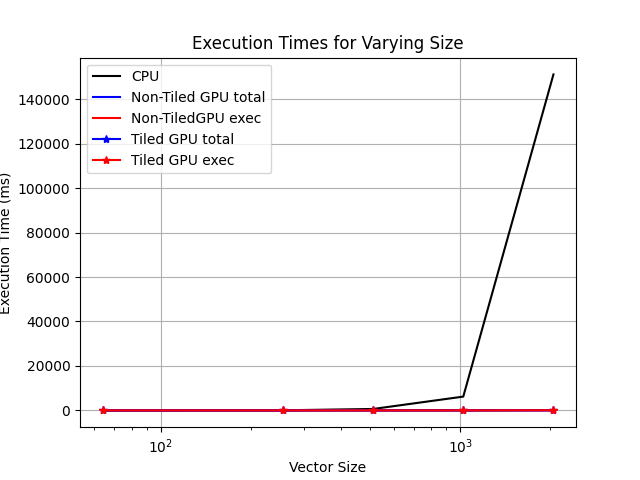
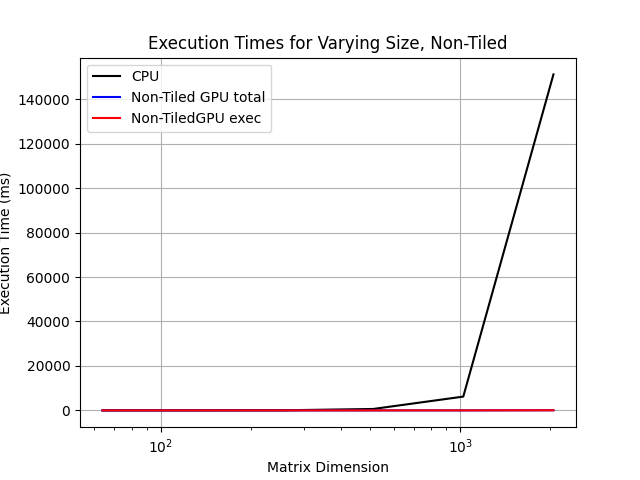
Fixed Figured

diff --git a/GPU/SAXPY/Tiled_MatMult/graph.py b/GPU/SAXPY/Tiled_MatMult/graph.py
@@ -28,47 +28,69 @@ GPU_Mem_N=GPU_wo_Mem+data['Memory Transfer (ms)'].to_numpy()
 through=np.divide(3*np.multiply(size,size),data['Memory Transfer (ms)'].to_numpy())*10e-6
 SU_Mem=np.divide(CPU,GPU_Mem)
 SU_wo_Mem=np.divide(CPU,GPU_wo_Mem)
-SU_Mem=np.divide(CPU,GPU_Mem_N)
-SU_wo_Mem=np.divide(CPU,GPU_wo_Mem_N)
+SU_Mem_N=np.divide(CPU,GPU_Mem_N)
+SU_wo_Mem_N=np.divide(CPU,GPU_wo_Mem_N)
 print(through)
+print(SU_Mem)
 
 fig, (ax1)= plt.subplots(1,1)
 ax1.plot(size,CPU, 'k',label='CPU')
-ax1.plot(size,GPU_Mem, 'b',label='Non-Tiled GPU total')
-ax1.plot(size,GPU_wo_Mem,'r', label='Non-TiledGPU exec')
-ax1.plot(size,GPU_Mem_N, 'b',marker='*',label='Tiled GPU total')
-ax1.plot(size,GPU_wo_Mem_N,'r', marker='*',label='Tiled GPU exec')
+ax1.plot(size,GPU_Mem_N, 'b',label='Non-Tiled GPU total')
+ax1.plot(size,GPU_wo_Mem_N,'r', label='Non-TiledGPU exec')
 ax1.set_xscale("log")
 ax1.grid()
 ax1.legend()
-ax1.set_xlabel('Vector Size')
+ax1.set_xlabel('Matrix Dimension')
 ax1.set_ylabel('Execution Time (ms)')
-ax1.set_title('Execution Times for Varying Size')
+ax1.set_title('Execution Times for Varying Size, Non-Tiled')
 plt.savefig('fig_1.png')
 plt.show()
 
+fig, (ax5)= plt.subplots(1,1)
+ax5.plot(size,CPU, 'k',label='CPU')
+ax5.plot(size,GPU_Mem, 'k',marker='*',label='Tiled GPU total')
+ax5.plot(size,GPU_wo_Mem,'c', marker='*',label='Tiled GPU exec')
+ax5.set_xscale("log")
+ax5.grid()
+ax5.legend()
+ax5.set_xlabel('Matrix Dimension')
+ax5.set_ylabel('Execution Time (ms)')
+ax5.set_title('Execution Times for Varying Size, Tiled')
+plt.savefig('fig_2.png')
+plt.show()
+
 fig, (ax3)= plt.subplots(1,1)
-ax3.plot(size,SU_Mem,'b', label='Non-Tiled GPU total')
-ax3.plot(size,SU_wo_Mem,'r', label='Non-Tiled GPU exec')
-ax3.plot(size,SU_Mem,'b', marker='*', label='Tiled GPU total')
-ax3.plot(size,SU_wo_Mem,'r', marker='*',label='Tiled GPU exec')
+ax3.plot(size,SU_Mem_N,'b', label='Non-Tiled GPU total')
+ax3.plot(size,SU_wo_Mem_N,'r', label='Non-Tiled GPU exec')
 ax3.set_xscale("log")
 ax3.grid()
 ax3.legend()
-ax3.set_xlabel('Vector Size')
+ax1.set_xlabel('Matrix Dimension')
 ax3.set_ylabel('SpeedUp')
-ax3.set_title('SpeedUp for Varying Size')
-plt.savefig('fig_2.png')
+ax3.set_title('SpeedUp for Varying Size, Non-Tiled')
+plt.savefig('fig_3.png')
+plt.show()
+
+fig, (ax4)= plt.subplots(1,1)
+ax4.plot(size,SU_Mem,'k', marker='*', label='Tiled GPU total')
+ax4.plot(size,SU_wo_Mem,'c', marker='*',label='Tiled GPU exec')
+ax4.set_xscale("log")
+ax4.grid()
+ax4.legend()
+ax1.set_xlabel('Matrix Dimension')
+ax4.set_ylabel('SpeedUp')
+ax4.set_title('SpeedUp for Varying Size,Tiled')
+plt.savefig('fig_4.png')
 plt.show()
 
 fig, (ax2)= plt.subplots(1,1)
 ax2.plot(size,through)
 ax2.set_xscale("log")
 ax2.grid()
-ax2.set_xlabel('Vector Size')
+ax1.set_xlabel('Matrix Dimension')
 ax2.set_ylabel('Throughput (GB/s)')
 ax2.set_title('Throughput for Varying Size')
-plt.savefig('fig_3.png')
+plt.savefig('fig_5.png')
 plt.show()
 
 
